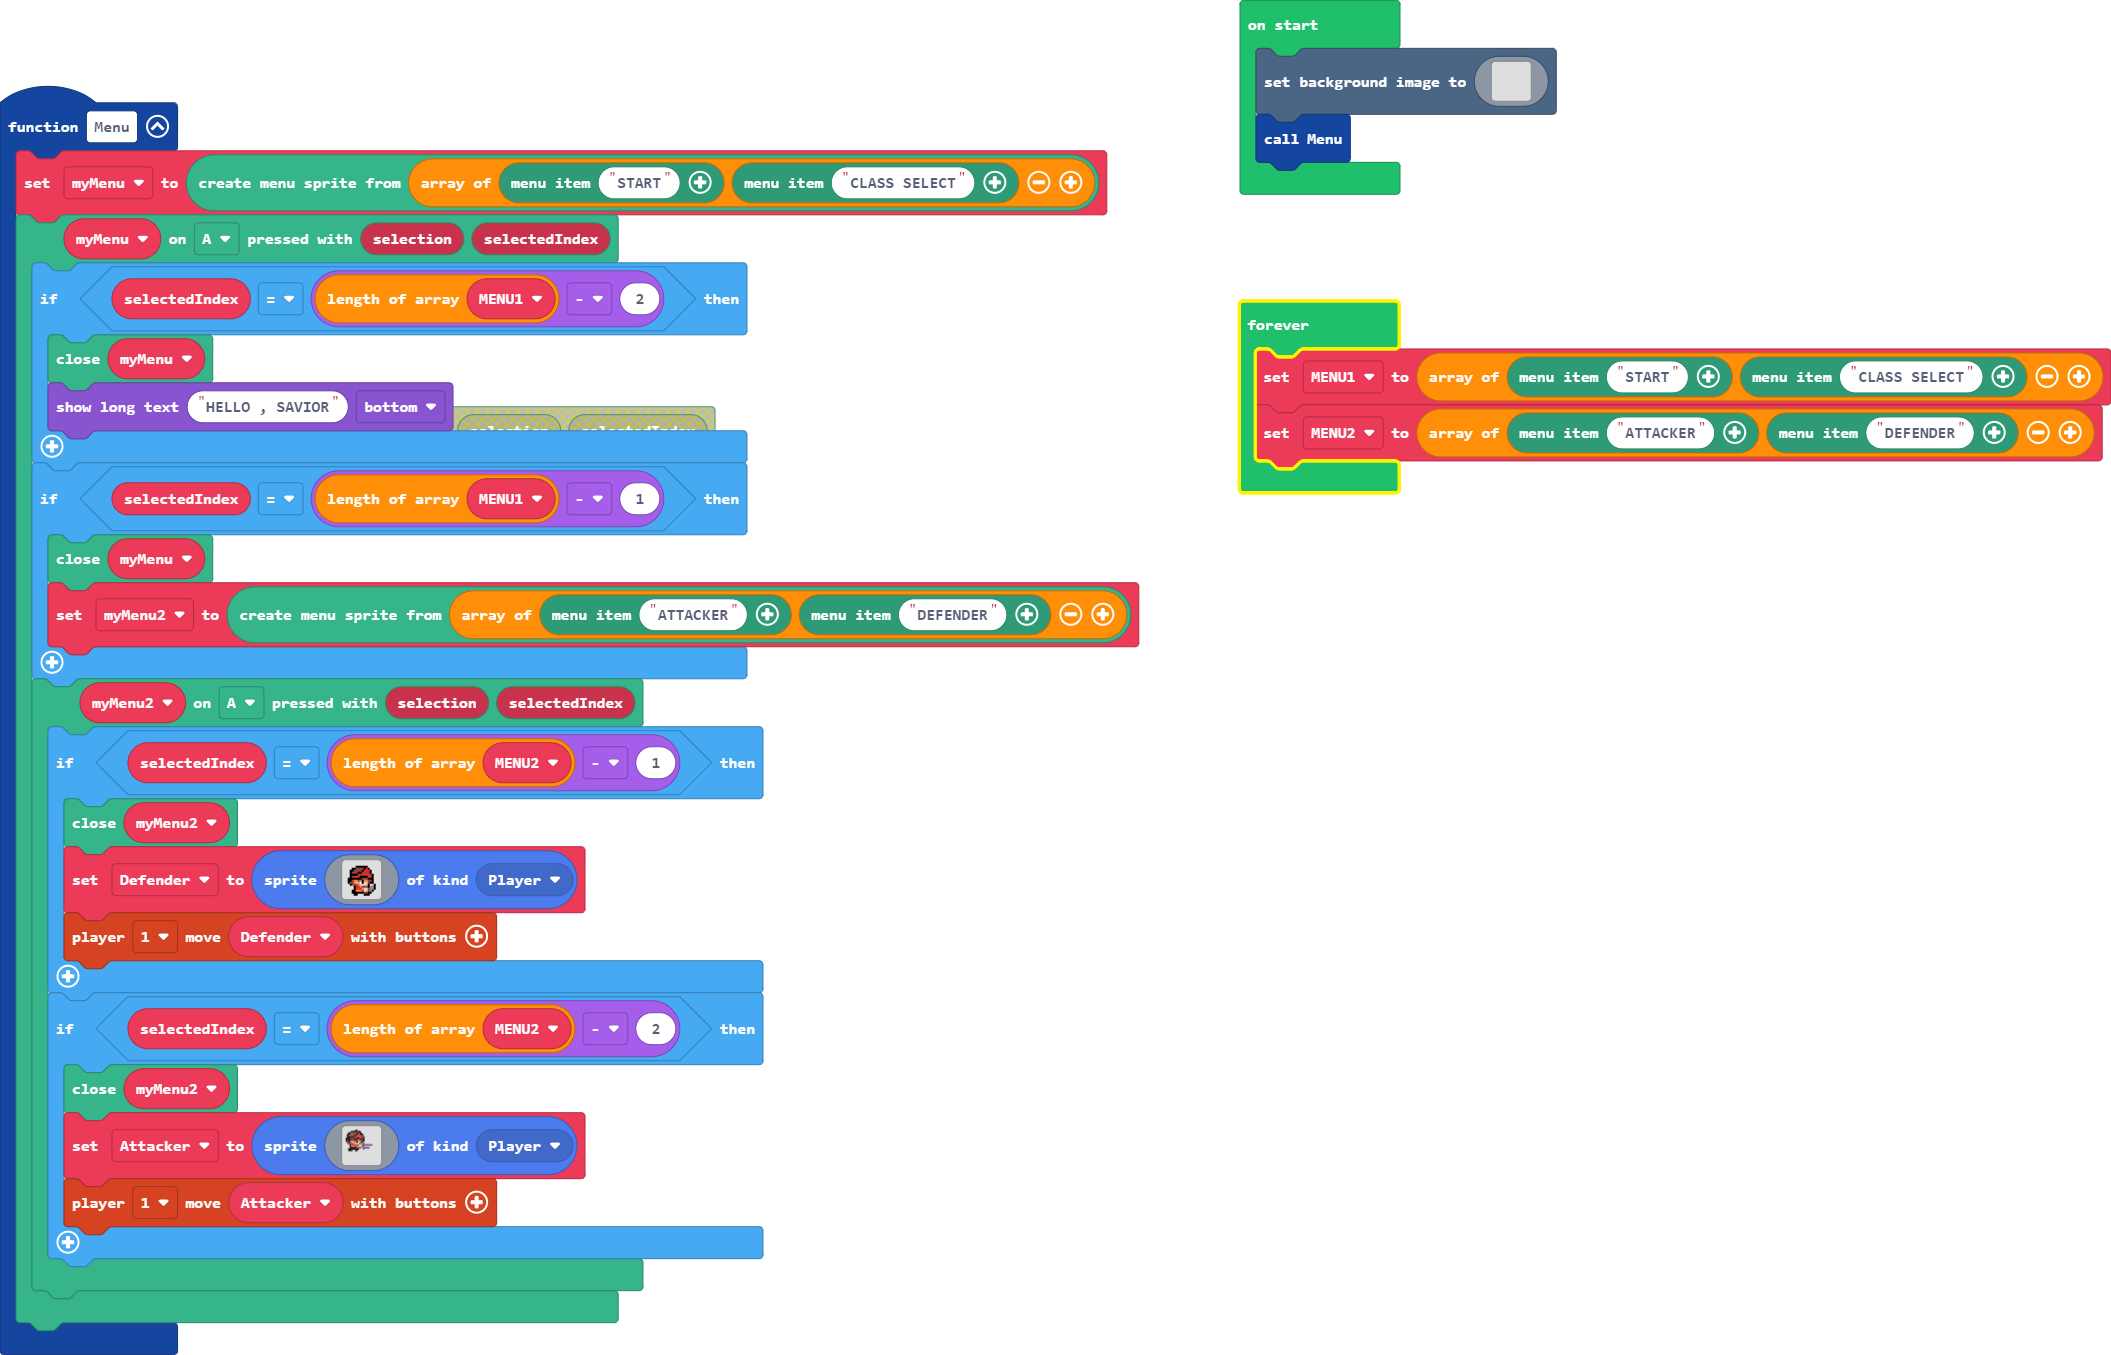
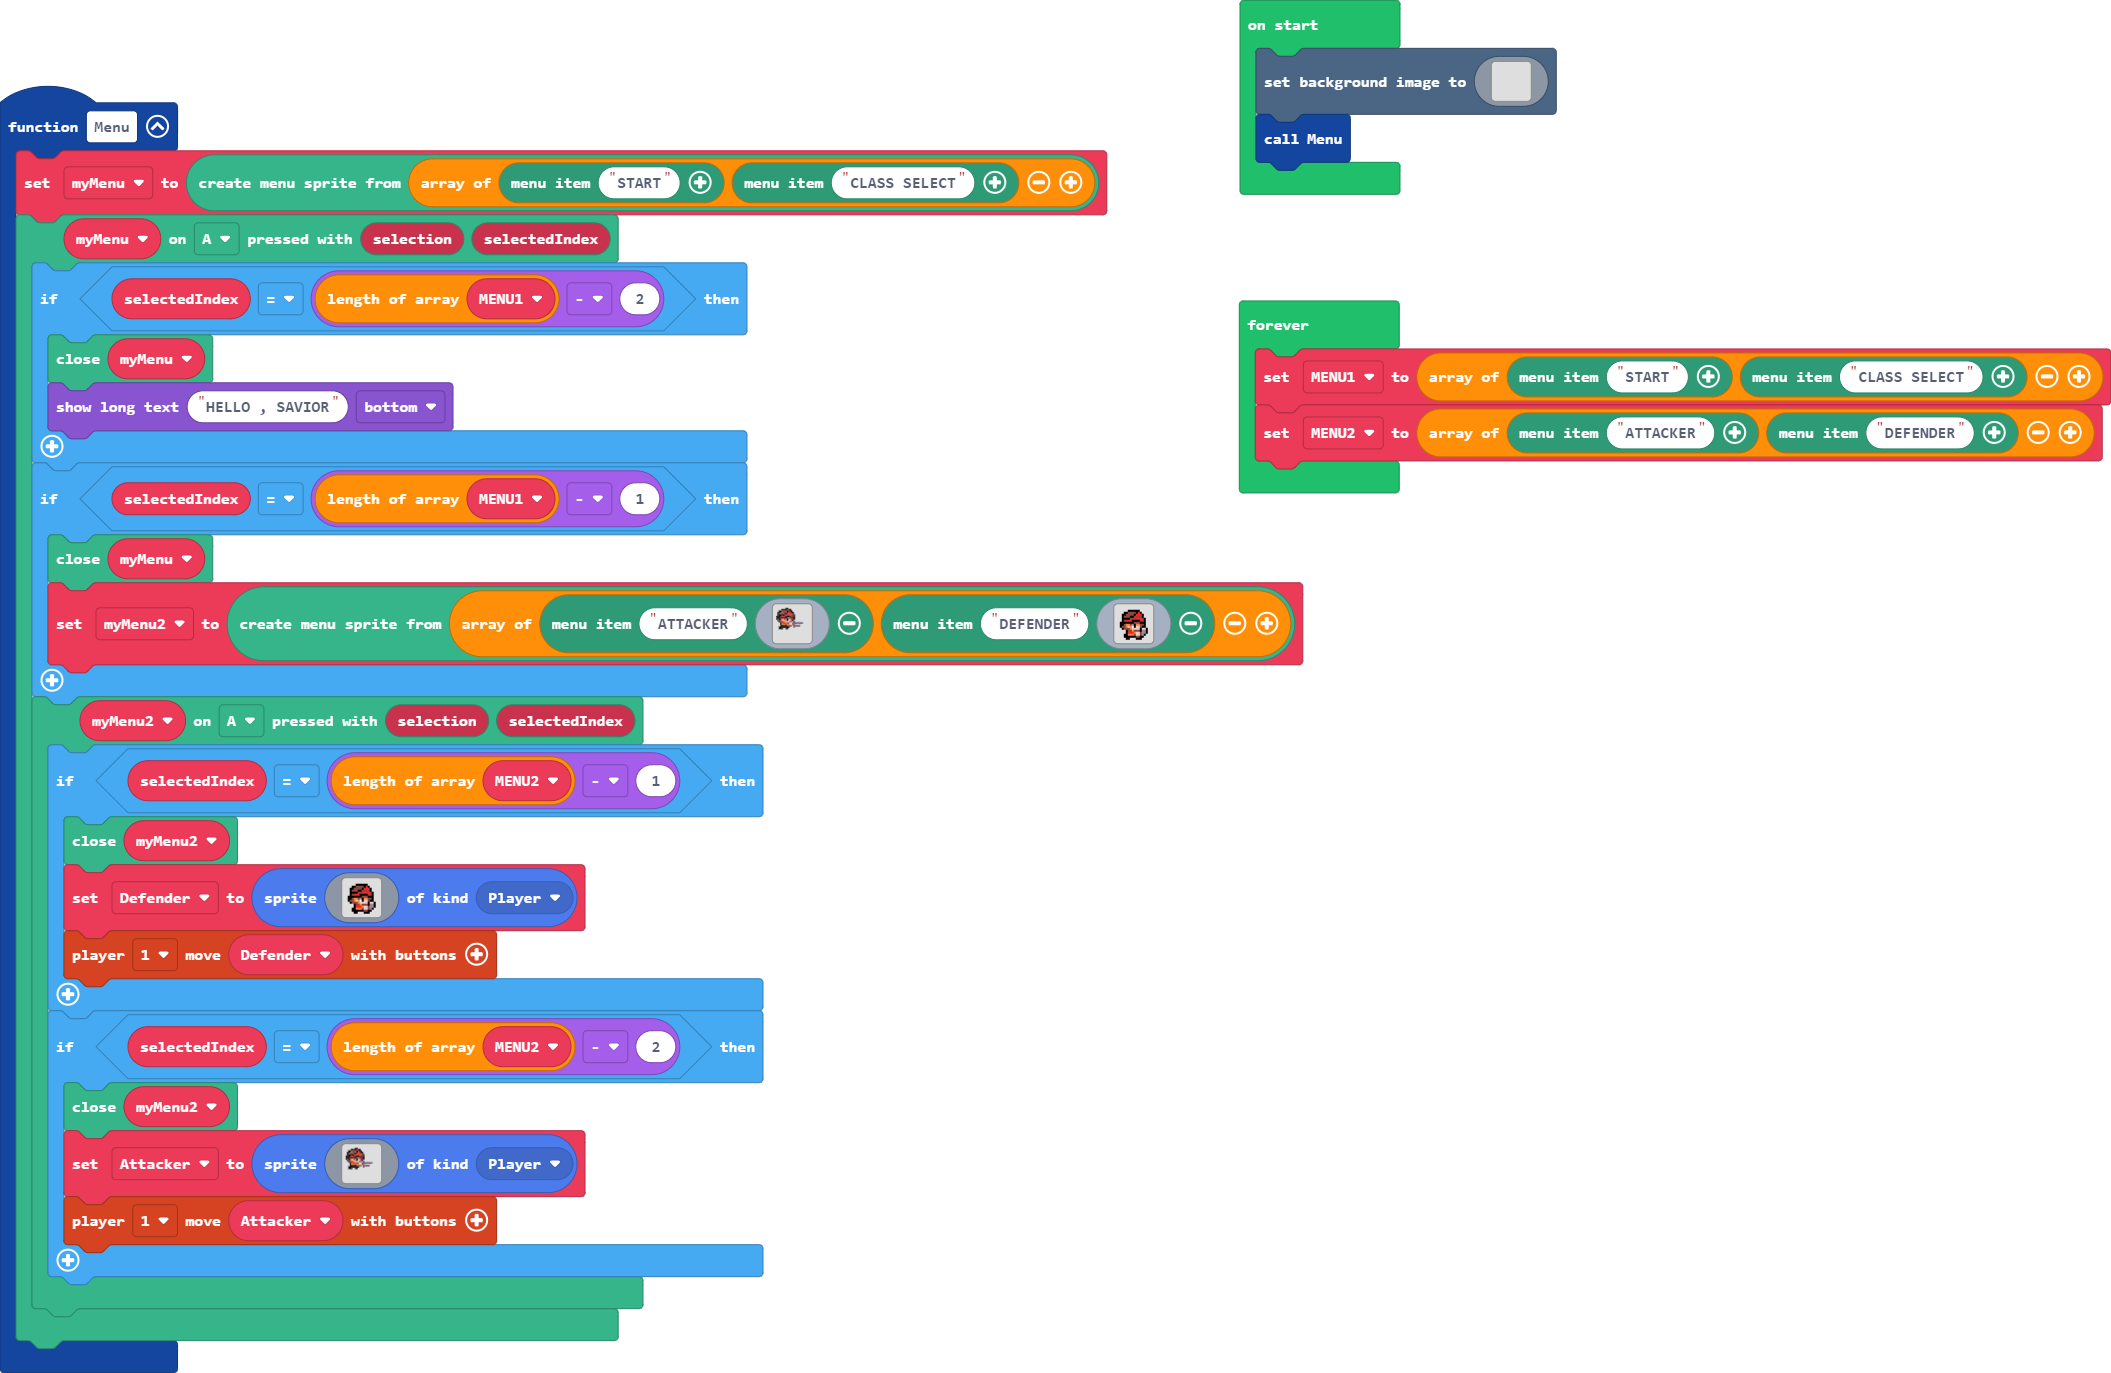
Update main.blocks, main.ts

diff --git a/main.ts b/main.ts
@@ -7,7 +7,49 @@ function Menu () {
         }
         if (selectedIndex == MENU1.length - 1) {
             myMenu.close()
-            myMenu2 = miniMenu.createMenuFromArray([miniMenu.createMenuItem("ATTACKER"), miniMenu.createMenuItem("DEFENDER")])
+            myMenu2 = miniMenu.createMenuFromArray([miniMenu.createMenuItem("ATTACKER", img`
+                .......ff...............
+                ....ffff2ff.............
+                ..ffeeeef2ff............
+                .ffeeeeef22ff...........
+                .feeeeffeeeef...........
+                .fffffee2222ef..........
+                fffe222ffffe2f..........
+                ffffffffeeefff..........
+                fefe44ebf44eef..........
+                .fee4d4bfddef...........
+                ..feee4dddee.c..........
+                ...f2222eeddeccccccc....
+                ...f444e44ddecddddd.....
+                ...fffffeeee.ccccc......
+                ..ffffffff...c..........
+                ..fff..ff...............
+                ........................
+                ........................
+                ........................
+                ........................
+                ........................
+                ........................
+                ........................
+                ........................
+                `), miniMenu.createMenuItem("DEFENDER", img`
+                . . . . . . . . . . . . . . . . 
+                . . . . . f f f f f f . . . . . 
+                . . . f f e e e e f 2 f . . . . 
+                . . f f e e e e f 2 2 2 f . . . 
+                . . f e e e f f e e e e f . . . 
+                . . f f f f e e 2 2 2 2 e f . . 
+                . . f e 2 2 2 f f f f e 2 f . . 
+                . f f f f f f f e e e f f f . . 
+                . f f e 4 4 e b f 4 4 e e f . . 
+                . f e e 4 d 4 1 f d d e f f . . 
+                . . f e e e 4 d d d d f d d f . 
+                . . . . f e e 4 e e e f b b f . 
+                . . . . f 2 2 2 4 d d e b b f . 
+                . . . f f 4 4 4 e d d e b f . . 
+                . . . f f f f f f e e f f . . . 
+                . . . . f f . . . f f f . . . . 
+                `)])
         }
         myMenu2.onButtonPressed(controller.A, function (selection, selectedIndex) {
             if (selectedIndex == MENU2.length - 1) {
